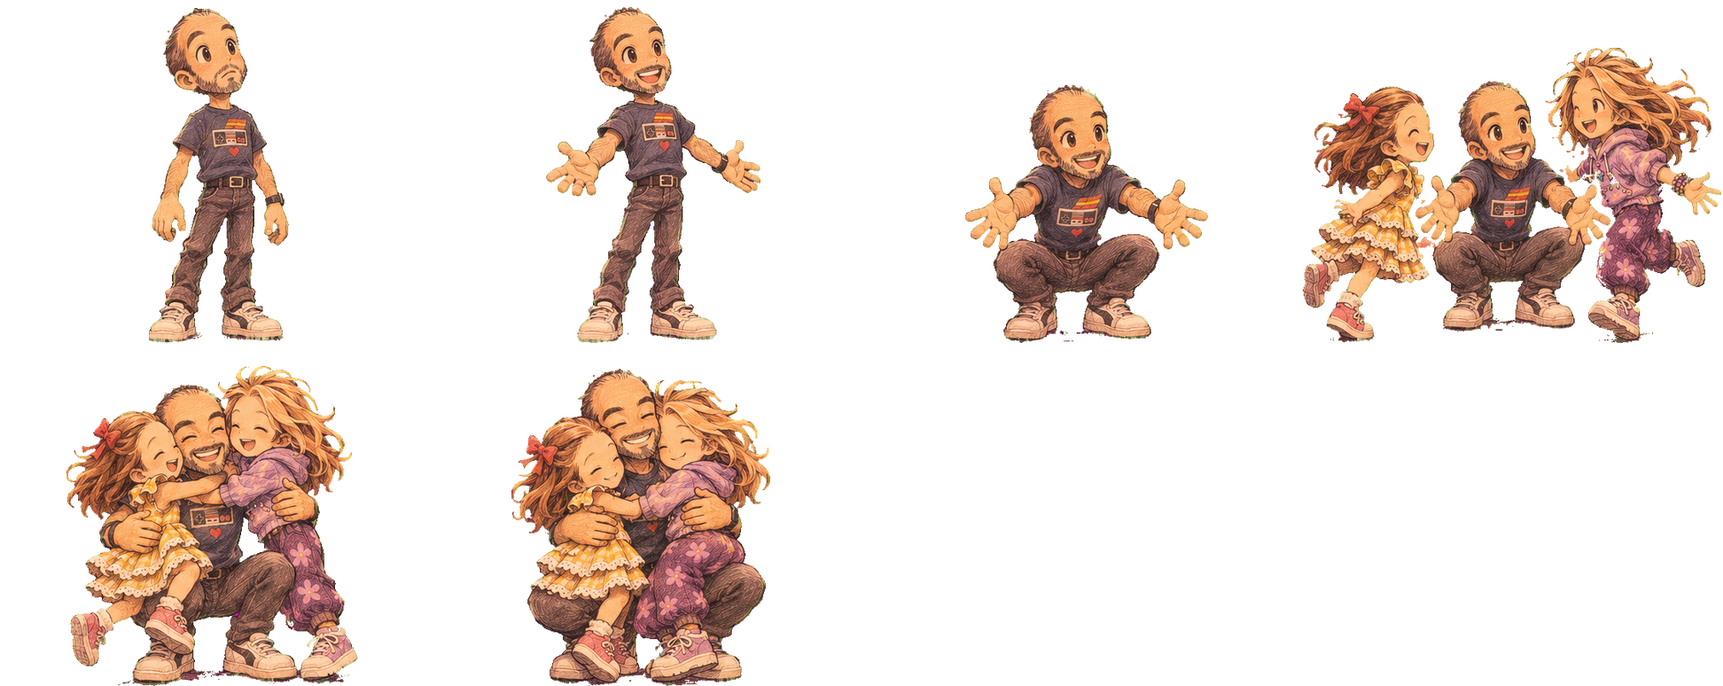
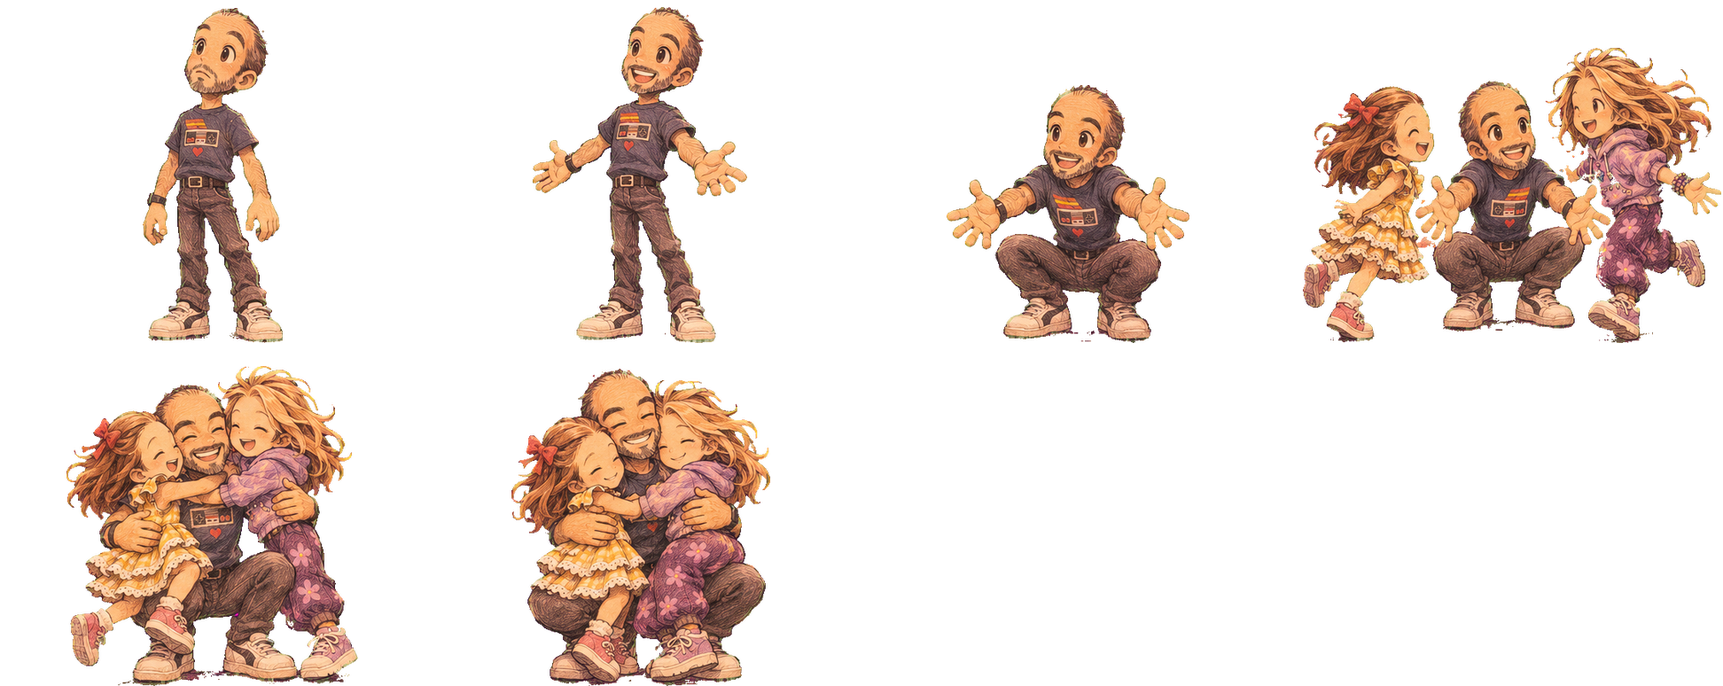
hugface1: mirror Tom's hear, delight and crouch frames so he faces the girls
Claude-Session: https://claude.ai/code/session_01RXeukDXLb7vE64gUfK5XKR

Changed region(s): [[0.5556, 0.124, 0.7099, 0.4961], [0.3086, 0.0, 0.463, 0.4961], [0.0617, 0.0, 0.1852, 0.4961]]

diff --git a/data/story-poses.js b/data/story-poses.js
@@ -30,13 +30,13 @@ const STORY_POSES_SRC={
     tr_hopoff:['..........................','.............FKtz.........','............hBCpBA........','..........rmhmtGJvp.......','..........hmkxLMJCmx..ML..','.......JM.hckDyJzshh..MI..','.......LLKhphtuGGDkcKJA...','........AIMsltICxCoELv....','.........pvGGEoxzkFCh.....','.........mchvIrmrpFvf.....','........h.hcBBAFIBrv......','..........ccffBFFBp.......','.............xADAzFJMHm...','..........yNLFFEBEpprBz...','..........BxtKEtAvxprx....','.........ELFBnpDkhINyz....','..........zNAhtLxhzKyEt...','...........prmpLG..tvvx...','...............MN...wxq...','.......wEM.....KKC..nn....','......uMJLC....wwk........','.....lFAqFDn...qEK........','.....iBxuwJy....NNy.......','.....cqDGGBAu...zk........','.....anxDwuuq.............','......xBtuDFw........K....','.......xnkqs.........D..K.','....H....Bvm.........MNHC.','....AK..jCJIsjo.....IMMJA.','....vDyyjeowjjjjj...CNGC..','....hrBubebbbjbboj.KBr....','....jpmgajjemmbbuHELv.....','....zvrgaeopvqaaBIFDm.....','....FvBdaeluslaafxBr......','....BBraaejosi............','.....v..bbbghb............','.......ebbeebbb...........','.......bbbebeba...........','.......icaaeabfl..........','......uuogdgfglsu.........','.....EEuslddgelouCE.......','.....HCwoicaaddilsEH......','.....NEunf...adginsEE.....','....ywslg.......ijgon.....','....idfi.........cgfc.....','....dfid.........cifc.....','....dlgl........fnif......','.....nid........fidi......','.....gif........cfif......','.....sfif.......difn......','.....igdd.......icdd......','.....oyyd.......csyo......','.....yEEo......osEEEs.....','....EKKyl......CLfyKKN....','....NNNCn......oysCKNNy...','....yuCw...........EEl....'],
     tr_sit:['..........................','..........................','...........Hz.............','.........pBLApC...........','.......rchrxztAm..........','.......mmhppxGGrt.........','.......hchxMMLMwk.........','......tfckDGGLuqc.........','.......hvhtqsLuxf.........','......vrqhvDGJLwh.........','.....EvrcfksGHCfkt........','......hhtFxfhpfpFr........','......hpHzAxqxtxFMC.......','......fhrtCEuqCDwtp.......','.......nMGquCCCqCD........','.......EDkvJLMMGtG........','.......FplDIJIJIqp........','......EJAhxwzICqkFL.......','......DHAhprpFttptAz......','.....KAAFpvvuIAzvBJI......','.....vFCyvtDGDBGtCsAC.....','.....MChDDktwqtqqGpxx.....','....EtmtJImfsDGkrLxrt.....','.....xpkHzafpqkahGzm......','......iGIAdbkmlakGLG......','......CLGBebbbeekDIL......','.....nFxxqajjhrpbtxBs.....','.....FvnNyajsxtoeKKdfh....','....GDvoCwbjnysnbwznvD....','...xFFxswsbjjsojbsysxF....','...AFvkyHvbbbhjbdrEypB....','....v..MNMebebeeawNNup....','.......EHnbbeeebb.HE......','.........aaacldcb.........','.........dililgif.........','.........flnlilll.........','.........lsoeaafl.........','.........nuibacos.........','........nusnf.gss.........','........lswn..iss.........','........lwof..iso.........','........uuld..dnsf........','........gsnd..dlun........','........wfd...dgli........','.......ynff...doif........','.......lnll...iifl........','.......nsui...lnnl........','.......oyic...djsl........','.......yld.....cis........','......lgfi.....figi.......','......nuni.....igjl.......','......sEyi.....anEys......','......EEHn.....lyHEE......','.....KNKyl.....EwlKKN.....','....ENNKys.....yCwHNNK....','....yyCHs........izKyl....']
   }},
-  hug:{member:"tom",atlas:{"src": "art/chars/hug-story.webp", "k": 9, "rects": {"hg_hear": [0, 0, 486, 387], "hg_delight": [486, 0, 486, 387], "hg_crouch": [972, 0, 486, 387], "hg_run": [1458, 0, 486, 387], "hg_crash": [0, 387, 486, 387], "hg_group": [486, 387, 486, 387]}},pal:{"a": "#4c322f", "b": "#563e3a", "c": "#6a3d39", "d": "#66453c", "e": "#6b4b43", "f": "#76453f", "g": "#794c41", "h": "#775248", "i": "#7d564b", "j": "#8b5145", "k": "#7f5c53", "l": "#8b5d4f", "m": "#985a4b", "n": "#a25c4c", "o": "#996653", "p": "#b45c4c", "q": "#9e6e59", "r": "#ad6d54", "s": "#b66e51", "t": "#c47151", "u": "#b37b5e", "v": "#c37c5e", "w": "#c0845f", "x": "#d5825a", "y": "#c48e69", "z": "#d78d62", "A": "#d69668", "B": "#e79659", "C": "#e59873", "D": "#d8a379", "E": "#e6a56e", "F": "#f1a36a", "G": "#f5ac66", "H": "#f3ac74", "I": "#eeb37b", "J": "#fcb36d", "K": "#fbb677", "L": "#f8bd7f", "M": "#fbc589", "N": "#fcd09d"},frames:{
-    hg_hear:['......................................................','........................quD...........................','.......................ALKLL..........................','......................wJEEKHw.........................','.....................jFzrHKKIA........................','.....................gzxEzHKql........................','.....................lrBEkwKzu........................','.....................lltKDxKHKz.......................','.....................cjjBJKEzEw.......................','......................tssFHEAHq.......................','......................xBzuwEAy........................','........................idgmq.........................','..........................pxx.........................','.........................klywe........................','........................qkkehlk.......................','.......................qkhkksxth......................','.......................qkhqqwwoek.....................','......................qkheqlyumeh.....................','......................cledkqqtqed.....................','......................FBbekkimkhs.....................','.....................ALF.ekeeeeiFA....................','.....................BLE.hkkhhhkBF....................','.....................GG..ebbdlhbzJ....................','.....................Jx...adhiib.JB...................','....................zL...gklille.tq...................','....................KMH..gihhehg.ewi..................','....................MLK..ilibaih.JNG..................','...................HMKE.hqlhadoi.ILH..................','...................zLwB.lqldahql.JxB..................','....................xs..ooi.dlql.wtz..................','.......................qwqd..iuu..x...................','.......................ihid.giql......................','.......................idb..bie.......................','......................qlib..iihh......................','......................ill...hho.......................','......................lie...bhh.......................','.....................yule...elol......................','.....................qloi...illl......................','.....................yDld...ggyD......................','....................uDIu....goDID.....................','...................NNNIq....DDhINNN...................','...................NNNMDw...wDyINNN...................','...................DyDDq......luyyl...................'],
-    hg_delight:['......................................................','.......................ouw............................','......................uKLLMH..........................','.....................mGKKKLEj.........................','.....................rJwwHKFA.........................','....................grxuEFKAi.........................','....................gotFolKFr.........................','....................fimBDrJJJF........................','.....................mjsJHAyqy........................','.....................sxsCAuCvu........................','......................xsqwCBEy........................','.........................giqr.........................','.........................jss..........................','.......................ihkklkkk.......................','.......................qkkkktxqh......................','......................qkkhqqxvlek.....................','.....................arlkeqlyrlbe.....................','.....................AKsbdoquuobrF....................','................HI..EKJhaekkopkbxKJ...L...............','.................BMEHKx..hkkhhk..xJGrIG...............','.................HFKFt...dkkkkkk..tzlxFEG.............','...............LEKHKI....kkheehh....jLHzE.............','...............EEEEKA....baaglia.....BJAA.............','................GEEzE....adhgii........FB.............','.........................hlolkle......................','.........................ilihehe......................','........................eloibblh......................','........................lqohahqh......................','........................ool.blq.......................','.......................oqoh.flq.......................','.......................yuqd.glu.......................','.......................iii..hlq.......................','......................lidb..dib.......................','......................qli...lgh.......................','.....................ille...eii.......................','.....................ilhh...bhe.......................','....................Awqld...hoql......................','....................luol....looo......................','....................qDyi....hhDDl.....................','....................yDIl....loDID.....................','...................NNNDl....IDhDNNN...................','...................NNNMy....yAyDMMNI..................','...................DDID........qyyu...................'],
-    hg_crouch:['......................................................','......................................................','......................................................','......................................................','......................................................','......................................................','......................................................','......................................................','......................................................','......................................................','......................................................','........................rwww..........................','.......................rGKKKLz........................','......................jBJKJJKE........................','......................mBGzEKFwj.......................','.....................fnBrvFJGzw.......................','.....................gosBwvGJii.......................','......................inBugGGzx.......................','......................jjxHzGFBF.......................','......................tsrGBuulw.......................','......................qsnwAzzzo.......................','.....................qkeagqAAwbko.....................','................I...eqkkbcmmibekqk....................','................FH.quskkebijabikkvo....HE.............','.................JyHKBobdebdirhbrGFJz.IB..............','................HLKBGzdaekktxtbagxGJuuMF..............','..............KHLHHBxgaakquvqla.acxxeBGJKGL...........','.............EBELJLw..aaliuuji......jKHJG.E...........','..............KJELG...bbekqrib.......BJGBL............','..............F.GH....habbfcbe...yD...EBGBB...........','...............E.GywwohbbbabbbhouuyAu.E.B.............','.................oyyuqqgabaaaeqohehqq.................','.................uuqgdhledgddlldbbiql.................','.................qrqgdbeifheeidadeild.................','.................gllidbbddggebaeliie..................','..................dggheaadeeaaeihhi...................','...................dbdeebbbdagigel....................','...................bdige....diaqud....................','....................kure....eeuIy.....................','...................lyyuo....yyiDIDN...................','..................wNNMyyw...yLuuNNNM..................','..................DMIIDo....luwAIIID..................','..................qoqoq...............................'],
-    hg_run:['......................................................','......................................................','......................................................','......................................................','......................................................','......................................................','.......................................A..............','....................................wtxxEA............','...................................xxzBvtFBxt.........','..................................ArBxJEAzsx..........','........................or........mrLFEJxxxsxB.GB.....','..........sxFxs........wKKKH......xALKABGxsttFFx......','.......xpgttxxsv......sJJJJKE....xtALAwxvBBnjnxGsxB...','.......ppppgjnEMA....lxGGFJGwj...zjsLAyGjftxcfjBxs....','.......cjpfjpHKKL....fxBrxJGBs....nxKHJGttnBBtttttxB..','.......pffgntKIKK....gstzvFJoi....szApHKsjgrtttjsp.t..','.....jmfjfajnJEyL....glxzexJzx....pjxFJzoyuomcxscps...','.....pspsgmmgFFFLE...fjmHzBGFF.....mgqjvIyyufanxnnt...','....txstjffsxHLBvE....tmtGwwou.......kyDqDyqklnmn.....','...ptcjncfagrwKLF.....stsAwCBw.......uyqDILDDDqjn.....','.....cpfjfinwEv.......kebgrAylbo....uquyyyDDDqo.......','....nmcfcgBtszsz.....lqkbcnnfaekq.GzqqyyyuuDuyKL......','.....jaccnprHxxB..H.esokdblgaehkqa.B..quyuhuqoAIqqII..','.......gcrwMLssB..BwHFxedebdjnelBAw..HCuyyyDqh..oELF..','.........MNHsmxy..FLBJtabkktBnajBJJ.KG.yIyuyuu...ELKI.','......LMLMBstBG..KKKBBcahqqvohaasJqAM..vqklqyk....KI..','......wMKvBGBJx.GGKJE.aahlqwje...noGFK..hlihff........','......svurIKMJB..GILB..bbkophb....ALKGBJfuvlfr........','....NMJztGByAyJ.GGEG...eabbcbe...DAJGG..qCIqhi........','....uMMADNKGGsDy.EGEyuqhbbbbbblouyAxAHGlquyjcbqj......','....trwwxwIMMBBsC.wvwuqodabaahqohdrvw..CoffhoilgDI....','...NKEwDMzBsuLMI..uurieilegdellbbeoqe..Iohcirrkgyyy...','...yDDwjnzDzBDDD..qqohbbhigghidbdilh...uoumcjlffrqw...','..DzDysjnBxANBxGM.diigebbdddebailil...vnqCylcfcboqDy..','..ysvA..LLtnnAMII..dghidabbbabihgi....vllyyo.....uMw..','..vpr..MNH..........dddhd....ehhig.....fcffhl.....Ao..','.uys...IL...........bdlee...dieyo.......jqjd..........','..uy..NNI............qwqd...ieyDu.......yDu...........','.....pzD............yDDoq...ADiDMM....NNDyD...........','.....Hxzu..........DNNIuu...rDwINNM..uuDNyyu..........','....yNMxv..........wDDDuf....jryywu...oqyII...........','.....guIHM..............................loIy..........','......ahDu...............................gj...........'],
-    hg_crash:['......................................................','......................................................','......................................................','..................................L...................','..............................BxxxBFA.................','......................gmo....wxxEzxFFA................','.....................mAFGLD.xtzBzLEzFBG...............','....................mFKKKKLs.xLMHHGxFxx...............','...................cvGJLKLEnpEMLHBJBtBB...............','...............FKBBsnGEyHKwxjELLMHxKAxGJF.............','............tttttrEMDtrwBJFxjvKLAHxmBnjBB.............','............pppjmwMLMzBAzJFFtFLLFFugtBmttz............','............fpfnpEIKMHtxJFzwvEwxLKspnzBBn.............','...........ppcjmpBLIELxFuuurmjEHIDDCqrnxBs............','...........nnjcfnsLAEDAswCFEgiklyDyyDykgxtt...........','..........ntpjanngFKLxwfozwusmkuIIyoqDkgpsx...........','..........BtmjjnpxEEAAlaagrmrwuDDyyCqulmst............','.........ttfnfjccwGwpwuwAKGslIDDCDDAzlfjn.............','.........tjjmfjarBABFLLMKBzyyCIDDqqvzEjj..............','..........jpcjfbuEjtGzsnspBCyyDqhksBEJG...............','..........pnjgcgjrtBzsgalonfdehhqyvBFGJs..............','............mjxBtzBGxJnellsjfbamICutzBxg..............','.............rrALEBGBGsioqDurhauDyDqjgaa..............','.............mwJGHEttGGwiqpphe.oqyogklol..............','.............mtJGGFtENIKuelgeb..lecoonnv..............','.............dmtBBsnIDwAwbbbdd...bciqyuq..............','............NJBAtsxBDELIGAkedl..oyyluICod.............','...........DNLIGGGKMBNDzwLqadbdouwyuqCyoh.............','...........nwDMMINLAAAtJHrgbablolhoqllmoo.............','............wtpDEtwxErIMzgbadloiegoqhfoili............','...........DNMEIMGMMuAMLladbeoldddllcqCylf............','............uMDuDIyliIMulhdgglddeigbcuCCuu............','.............ntttnafINDfqfdfidbllihdcovqmoq...........','.............MKKFmdszCwdebdddbciigggmqhfiib...........','.........DMzNNIGmdlICxueba...cligh..jmcmrna...........','.........DDtxI....uMMCzg.....gilgg..cccjvAu...........','.........yAxv.....goyNMD....flciyl.....oDDM...........','.........ADzq......ijuDN....cfqDDq.....IDyyy..........','.........wDI.......oomjq....uqqDIDu....uDDyD..........','..........yI......yDyudu....wMqeMNNNy.MNNDDNI.........','.................DNNNDqy....uIEuINNNI.NNNNN...........','.................ILLIIwjf...fqryAEIEwoDDDu............','.................iilqo.............d...ba.............'],
-    hg_group:['......................................................','......................................................','......................................................','.......................o..............................','.....................rFHKIu...........................','....................rGKKJKJ...E.......................','...................jBJJKKKEmjxsBznx...................','...................gBGKHKHsumxFFAzvx..................','...................cvBmsGGGzpxxJKAABB.................','................wxnmgsBHFGxztKHEGBxtGB................','...............BEFFBtmxtFJFBxLMEBFJGzBGJ..............','..............txtBxtKApGzuwusKLLHBrvsg.B..............','............xtjpnjsLLMEtwIIEnFLAAFnpzBnx..............','............pptpjpFLKLLoqEwrjFLKKKzsmEBxx.............','.............fpjntKHKLKragocgJKILCldcnpBB.............','.............pffjtFLEHKGrptmdoyDyyDDqmgnFB............','............smfffnnKzHLIddrieouIDquDyqfsxx............','...........xjjpnpnmBKELwbbehoyIDyDqqDqjtx.............','............nxxncjtAusndekdyICDIDvAoqqjnx.............','...........zxppcclGJxGHwoxwDIDIyrvBFnfnnn.............','...........xjjjffmssxxGMMKCyCDqfxEJJGnj...............','...........xjpjjcnzBBvtsxBmlqlerBEGGJAa...............','.............pjfsJJJGAxpabbfaayvtxFFBmg...............','...............mBGGGGFxBlbdfahywonsncam...............','...............jssxFFxpxAbabballmuvvCna...............','...............lAtttttBGBgbeagvqyCyruCr...............','..............NJBEGGBJJLGKkbarqoyCyilnr...............','.............uNNINLJMNLMDNqabmmolqhlmcl...............','..............nwrDNMyyDEsBgajuCuffcmdlwDA.............','..............ExxxsEBxKNMJIrnvIyhibalqquyu............','.............yDMNGINMLDwuDulnruulfbglidlql............','............jjlqDDyDMDnBtccfjqqqrvggdddild............','............oqqoooffcmKLxanrlCCrqyoabddgg.............','.............qllioldaEMEgaCqlCrfiffbegee..............','.............ilhhigdlHKrccrmjlfjogabedg...............','..............bdeebdMNymcfnffacotmdded................','................aaasCDyvdbjcbgiDIDuffd................','.................buCxxunia...quyDDyi..................','.................gDNCxunlg...lyDvyDqg.................','................DuguNHvnvq..DDIDDMNDDM................','...............yNIofuINDCy.uNNMNIyqlIND...............','...............uAAyigqDwojcoADDufiorDIy...............','................bdf.bcg.....ccbac.....................']
+  hug:{member:"tom",atlas:{"src": "art/chars/hug-story.webp", "k": 9, "rects": {"hg_hear": [0, 0, 486, 387], "hg_delight": [486, 0, 486, 387], "hg_crouch": [972, 0, 486, 387], "hg_run": [1458, 0, 486, 387], "hg_crash": [0, 387, 486, 387], "hg_group": [486, 387, 486, 387]}},pal:{"a": "#4c332f", "b": "#563e3a", "c": "#6a3d39", "d": "#6f453e", "e": "#6a4b43", "f": "#794c41", "g": "#72514a", "h": "#7d5246", "i": "#7c564c", "j": "#8b5144", "k": "#7e5c53", "l": "#8b5d4f", "m": "#975a4b", "n": "#976552", "o": "#aa5b4b", "p": "#976d5a", "q": "#ac684f", "r": "#a26e57", "s": "#b56d53", "t": "#ac7159", "u": "#c37151", "v": "#b37b5e", "w": "#c47c5d", "x": "#c0845f", "y": "#d5825a", "z": "#c48e69", "A": "#d78d62", "B": "#d69668", "C": "#e79758", "D": "#e69972", "E": "#d8a479", "F": "#e6a56e", "G": "#f1a46a", "H": "#f5ab66", "I": "#f2ac74", "J": "#efb47b", "K": "#fcb572", "L": "#f8bd7f", "M": "#fbc58a", "N": "#fcd09d"},frames:{
+    hg_hear:['......................................................','...........................Evr........................','..........................JLKLF.......................','.........................vIKGFKA......................','........................BJKKKvyHl.....................','........................nnKKAFwCh.....................','........................xzKAgECsn.....................','........................KIKAzKyjm.....................','.......................xFAFKHGjjd.....................','.......................nIBBIIwqu......................','........................zBIxvxCy......................','.........................rmfdh........................','.........................uys..........................','........................gxBnk.........................','.......................kpkgkkp........................','......................guyspkgkp.......................','......................gnvxppgkp.......................','.....................gemvzlpggkp......................','.....................egputpkeglf......................','.....................uigmikkgbyG......................','.....................Glegggkg.GLB.....................','....................CGkgggkkg..LF.....................','....................HCbgldbbg..HK.....................','...................CK..iihcaa..yKu....................','...................pw.ellillf...LA....................','...................xf.fieggih...ML....................','...................NK.fiabilkc.JLMJ...................','..................ILJ.hpeaglph.GJMI...................','..................FxH.ltiaclpn.CxLA...................','..................Awu.lrlc.inp..sy....................','...................y..rvld.bpvr.......................','......................ltlf..ihi.......................','.......................eib..bdii......................','.......................hii..bilr......................','.......................nhh...ili......................','.......................gib...eilh.....................','......................lnlf...eltz.....................','......................inll...hnlr.....................','......................zEhf...diEzl....................','.....................zJEpf....rJEv....................','...................NNNMizE....pENNN...................','...................NNNJzEz...vEMNNN...................','...................lxzvn......rEEEE...................'],
+    hg_delight:['......................................................','............................xvr.......................','..........................IMLLLx......................','.........................hBLKKKHm.....................','.........................AGKKxxHud....................','.........................hAKGFxysf....................','.........................rBKniGwnh....................','........................CKHKqzGmhd....................','........................xtxBIKwjm.....................','........................vxDxBGsys.....................','.........................FCGxrsy......................','.........................rtlf.........................','..........................qsj.........................','.......................kkklkkgi.......................','.......................pyukkkkpl......................','.....................kgiwArpgkpp......................','.....................eblrzlpeklqb.....................','....................GwblsvppebqKF.....................','...............J...GKyckonkkgaeIKI..JL................','...............FJrGKA..gggkkgb.yKIFMF.................','.............HIGAlAu...kkkkke...uFKGI.................','.............FAILm....ggeegkke...FLGKFL...............','.............BBKC......hlhaab....BKFFFF...............','.............CGC.......hifhca....FBFFH................','......................elllnli.........................','.......................gegill.........................','.......................lbaipnf........................','.......................piaelrl........................','.......................rlb.ipn........................','.......................nld.fprn.......................','.......................vlf..pvz.......................','.......................nlh..giif......................','.......................aie..beil......................','.......................hfl...glr......................','.......................iig...dllh.....................','.......................eib...fiki.....................','.......................pnhb..dltxB....................','......................ppln....lnvn....................','.....................iEEih....hzEr....................','.....................EJEpl....iJEz....................','...................NNNJgzL....lENNN...................','..................ENMMJzBzn...zMNNNE..................','...................vzzr........EJEE...................'],
+    hg_crouch:['......................................................','......................................................','......................................................','......................................................','......................................................','......................................................','......................................................','......................................................','......................................................','......................................................','......................................................','..........................xxxq........................','........................xLKKKHv.......................','........................AKIKKKCm......................','.......................jwFKGAGHof.....................','.......................vAHKGxqCqd.....................','.......................lfHKwxCuqf.....................','.......................CAHKhpCqhf.....................','.......................CCCHCICjm......................','.......................xnvvAHsqu......................','.......................nAyAAxqur......................','.....................pkbxBBrhaekp.....................','....................kpkebhmmdbkkpg...J................','.............FK....nwpkibahlbekkqvr..K................','..............CJ.yKGHsbeqjebeeblCIKxKu................','..............FMxtKHyjbbuyulkgabyHCILI................','...........LHJKHCdwyfa.akrwvplaadyCIGLKKI.............','...........G.GKILm......gjtvilaa..sLILFCG.............','............LFHKG.......birtkgbb...GLFKL..............','............CHGF...Bz...gbcfbbag....IIKG..............','.............H.F..BzxvnhbbbabbbgnvzxG.F...............','.................rtiehlrfaaabadrtvxzr.................','.................hrlbbclldcfddlidfrvv.................','.................dlhfcachfdhdhdbcdntt.................','..................eiilfaaddhccbbchllh.................','...................hhfidaaeeebadhffea.................','....................iffhfacbbbefdbc...................','.....................rtahd....edhcb...................','.....................zJxee....drvl....................','....................EEEizz....pvEzn...................','..................JNNNzrLB....zvMMNz..................','..................BJJJExtn....nEJJME..................','................................rrnr..................'],
+    hg_run:['......................................................','......................................................','......................................................','......................................................','......................................................','......................................................','.......................................B..............','....................................xwyyFB............','...................................yyACwuGCyu.........','..................................BqCyKFBAqy..........','........................nt........mqLGFKyyysyC.HC.....','..........swGyq........xKKKI......yBLKBAHyquuGGy......','.......yofuuyyuw......sKKKKKF....yuBLBxywCCqjoyHsyC...','.......oooofjoFMB....lyHHGKIxj...AjsLBzHjduycdjCys....','.......cjufjoILLL....dyCryKHCu....oyKIHHuuoCCuuyuuyC..','.......offfouKJKL....fsuAwGKnh....sABqILsjfquuujsq.u..','.....jmcjfajoKFzL....flyAeyKAy....qjyGKAnztpmcyscqs...','.....quoufmmfGGGLF...djmIACHGG.....jfpjwJzzvdaqyomu...','....uysujfdsyILCwF....umuHxxnv.......kzEpEzpllqmm.....','...qucjocfafswKLG.....uuqBxDCx.......vzpEMMEEErjo.....','.....codjdhoxFw.......keahtBzlbp....vtvzzzEEEtn.......','....omcfcfCuuAsA.....lpkbcmodagkp.HAppzzzvvEvzKL......','.....jaccqosIyyC..I.espkeblfaegkpa.C..pvzvgvpnBJtpJJ..','.......fctxMLusC..CxGGyeeebejmelCBx..IBvzzzEpg..nFLG..','.........MNIsmyz..GLBHuabkkuCoajCKH.JH.zJzvzvt...FLKJ.','......LMLMCquCH..KKKCCdagprwngaauHrBM..vtkntzl....KK..','......xLLwCHCHy.HHKKF.aaglrxje...onHGJ..ilhgdg........','......swvqJKMKC..HJLC..bbknqgb....BLLHCKftzldt........','....NMKAuHCzBzK.HHFI...gabbcbe...EBKHI..rDJtgh........','....vMMBENKHHqEz.FHFzvrgbbbbbblnvzByBIHlrtzicbrj......','....uqxxyxJMMCCsD.xwxvtncabaahrnfetxx..DnfffnhlfEM....','...NKFxEMACuvJMJ..vvtheildhddllbbenre..Jphciqtifzzz...','...zEExjqAEACEEE..rrnfbbhhffficbdhlh...vpvmcilddtrx...','..EAEzujmCyBNCyHM.diifebbbdcdbahlil...wntDzlcdcbprEz..','..zswB..LLumqBLJJ..dffheabbbabhhfh....wllzzr.....vMx..','..xqq..MNI..........dcdfc....dfhif.....dcdfhl.....Bn..','.vzs...JL...........bclee...chezn.......hrjc..........','..vz..MNE............rxre...lezEv.......zEv...........','.....uAE............zEzpr...BEiEMM....NNEzE...........','.....IyAv..........ENNJvv...tExENNM..vvENzzv..........','....zNMyw..........xEEEvd....htzzxv...nrzJJ...........','.....fvJIM..............................mnJz..........','......aiEv...............................fh...........'],
+    hg_crash:['......................................................','......................................................','......................................................','..................................L...................','..............................CyyyCHB.................','......................fmn....xyyFAyGGB................','.....................mBGHLE.yuACALFAGCH...............','....................mGKKKKLv.yLMIIHyGyy...............','...................cwHKLLLFnqFMLICHCuCC...............','...............GKCCvmHFzIKxyjFLLMIyKByHKG.............','............uuuuuqFMEuqxCKGyjwLLBIymCqjCC.............','............ooujjxMLMACBAHGGuGLLGGvfuCmuuA............','............fojmqFJLMIuyKGAxwFxyLKsqmACCq.............','...........uocjmoCLJFLyGvvvtmjFIIBEDrqoyCs............','...........oojcdoqLBFEBsxDDFhiknzEzzEzkfyuu...........','..........ouqjaoofFKLyxdnAxvsmkvJJzptEkfquy...........','..........CumjjoqyFFBBlaafqmqxvEEzzDptlmqu............','.........uudocjccxHxqwvxBKHslJEEEEEBAldjo.............','.........ujjmdjaqCBCGLLMKCAzzEJEEppxAFjj..............','..........jocjdbvFjuHAtnsoCDzzEpgksCFKH...............','..........oojfcfjquCAqhalnnfceggrzwCGHKs..............','............mjyCuACHyKqgnlsjdbamJEvuACyf..............','.............qqBLGCHCHsinrEvtgavzzErjfaa..............','.............mxKHIFuuHHxipqoge.npznfilpl..............','.............muHHHGuFNJKvelheb..ldcnnnnw..............','.............cmuCCuoJExBxbbbee...bchtztt..............','............NKCBusyCEFLJHBkeep..nzzlvJDnc.............','...........ENLJHHHKMCNEAxLpaebcnvxzvtDznh.............','...........oxEMMJNLBBBuKIsfbaalnlhnrllmnn.............','............wuqEFuxyFqJMAfaaclnhdfnrhgpili............','...........ENMFJMHMMvBMLlacbdnlcdcllctDzlf............','............vMEvEEzliJMvlhdfhldddifbdvDDtv............','.............muuuoadENEdrdcdicbllihdcnwpmnr...........','.............MLKGmdsADxddbccbbchhfffmrgdhhb...........','.........EMANNJHmblJDyveba...clifh..jmcnsna...........','.........EEuyE....vMMDAf.....fllfh..cccjwBv...........','.........zByw.....fnzNME....dlcizl.....nEEM...........','.........BEAr......hjvEN....cdpEEr.....JEzzz..........','.........xBJ.......nnmjr....vrpEJEv....vEEzE..........','..........zJ......zEztcv....xMteMNNNz.MNNEENJ.........','.................ENNNEtz....vJIvJNNNE.NNNNN...........','.................JLLJJxhd...drtzBFJFxnEEEv............','.................hhlrn.............c...ba.............'],
+    hg_group:['......................................................','......................................................','......................................................','.......................n..............................','.....................qGGKJv...........................','....................qHKKKKH...F.......................','...................jCKKKKKFmjyuCAmy...................','...................fCHKIKIvvmyGGBAwy..................','...................cwCnuHHHAqyyKKBBCC.................','................xyomfqCIGHyAuKIFHCyuHC................','...............CFGGCumyuGHGCyLMFCGKHACHH..............','..............uyuCyuKBqHAvxvsKLLIAqwuj.C..............','............yyjoojqLLMFuxJJFmGLBBGoqACoy..............','............oouojqGLJLLnrFxtjGLLLKAqmFCyy.............','.............fojouLIKLKqafncfKLJLDldcoqCC.............','.............ucdjuGLFILHqqumcrzEzzEEpmfqGC............','............qjfffoqKAKLJcctienvJEpvEzpdsyy............','...........yjjqooomCKFLxbbegnzJEzEtpEtjuy.............','............qyyocjuBvsqdekezJEEJEwBnptjoy.............','...........AyoocalHHyHIxnyxEJEJztwCGqfmoo.............','...........yjjjffmsswyHMMKDzDEpfyFKKHqj...............','...........yjqjjcoACAwuqyCmlrlesCFHHKBa...............','.............ojdsKKKHByqabbdaazwuyGHCmh...............','...............mCHHHHGyClbefagzxnmsmcam...............','...............juqyGGyoyBbabballmvwwBra...............','...............jBuwuuuCHCfbgafwrzDztvDt...............','..............NKCFHHCKHLHKlbatrnzDzilot...............','.............vNNJNLKMNLMENpabmmnmrflmcl...............','..............qxtENMzzEFsCfajtzvfdcmdlxEB.............','..............FyyyqFCyKNMKJtovDzhhbalrrtzv............','.............zEMNHJNMLExvEvlnttvldbfliclpl............','............jjlpEEzEMEoCuccfhrtrtwffcccile............','............ntrnrnfdcmKLyartlDDtrzrabcdff.............','.............rllinlcaFMFfaArlDtghddbdfde..............','.............ilhhhfclIJqcdtmjlfjnfabddf...............','..............bdddbdMNzmcfofdacrumcddc................','................aaasDEzvdbjcbfhEJEvddd................','.................bvDyytoha...rtzEEzi..................','.................fENDyvolf...lzEwzErf.................','................EvfvMIwowr..EEJEEMNEEM................','...............zNJndvJNEDz.vNNMNJztnJNE...............','...............vBBzifrExnjcnBEEtdhntEJz...............','................bcd.bdf.....ccbac.....................']
   }},
   tomemo:{member:"tom",atlas:{"src": "art/chars/tomemo-story.webp", "k": 10, "rects": {"em_happy": [0, 0, 280, 420], "em_loving": [280, 0, 280, 420], "em_sad": [560, 0, 280, 420], "em_angry": [840, 0, 280, 420], "em_scared": [1120, 0, 280, 420], "em_surprised": [1400, 0, 280, 420], "em_proud": [1680, 0, 280, 420], "em_unimpressed": [0, 420, 280, 420]}},pal:{"a": "#372723", "b": "#4c3022", "c": "#4f382d", "d": "#573b2a", "e": "#5e3c27", "f": "#5b4137", "g": "#66442f", "h": "#684833", "i": "#6d4c30", "j": "#78492d", "k": "#795130", "l": "#6c4e44", "m": "#78523c", "n": "#7b553d", "o": "#965030", "p": "#7e5942", "q": "#805d42", "r": "#905c37", "s": "#8b603f", "t": "#8c6441", "u": "#96643f", "v": "#ac6435", "w": "#976c48", "x": "#a86e41", "y": "#a4764c", "z": "#ba7440", "A": "#ab7c51", "B": "#cc783e", "C": "#ad845a", "D": "#c48751", "E": "#e08947", "F": "#c49865", "G": "#e09652", "H": "#f1964e", "I": "#f7a156", "J": "#ebaa65", "K": "#fca85a", "L": "#fdae5f", "M": "#f5b56d", "N": "#f5c789"},frames:{
     em_happy:['............................','............................','............zGGJ............','...........vKLMNMx..........','..........zILMMMGzi.........','.........rGIIDGMLMG.........','.........jDEkuELKEz.........','.........jxzEGDKKBBv........','.........keBEvEKEEzv........','..........rrEBzGDArD........','.........BBvDBgijbzF........','..........EBCGxoBBx.........','.............CwDJJF.........','..............jjwy..........','............wfdzBIGw........','...........tplfzKEIDl.......','...........ppcfuIGEzf.......','...........tplcrIHHkfp......','...........gBxrIIjvkkj......','...........jIHKIjbezIB......','............HKIreobELG......','............BEjcppcjEE......','............icclfflc........','............fabaida.........','.............iiimgb.........','............itugimn.........','............iuDtabws........','.............wDAbdyA........','.............nADgeyD........','.............iyFudtDw.......','.............gyFw.nDD.......','............xsig.ehng.......','...........xskg..see........','..........itske.idkk........','..........sdee.gdgn.........','.........NCwd.Fwdbb.........','.........AqFy.Cnyy..........','.........wFNC..tFF..........','.........FNNN..FMNJ.........','..........FNNM.CMNN.........','...........FF...qw..........','...........a................'],

diff --git a/tools/sprite-bake/bake_story_poses.py b/tools/sprite-bake/bake_story_poses.py
@@ -44,6 +44,9 @@ SETS = {
     # 'feet' = x of Tom's own feet in each group frame's cut picture, in source pixels (measured with a ruler on the cut frames), so he stays on one spot from frame 4 to 6.
     'hug': {'member': 'tom', 'sheet': 'tom-grace-rose-greeting-hug-v2.png', 'ground': (255, 0, 255), 'dark_cos': .88, 'dil': 4, 'cut': (4, 2), 'k': 9, 'h': 42, 'ref': 'hg_hear',
             'names': ['hg_hear', 'hg_delight', 'hg_crouch', 'hg_run', 'hg_crash', 'hg_group'],
+            # hugface1 (Tom 16:47: "Tom is facing right instead of left before he hugs the girls"): the girls run in from the left, but v2 paints Tom's first three frames turned toward
+            # screen-right, so these three are mirrored (the only flip in this set; named to Tom). The group frames are as painted.
+            'flip': ['hg_hear', 'hg_delight', 'hg_crouch'],
             'feet': {'hg_run': 267, 'hg_crash': 194, 'hg_group': 175}},
 }
 
@@ -251,6 +254,7 @@ for cid, S in SETS.items():
             S['k'] = max(5, min(10, int(hd * stand_frame(S['member'])[1]) if hd else int(figs[S['ref']].height / S['h'])))   # never upscale the painted frames
     elif 'ground' in S: figs = dict(zip(S['names'], cut_cells(key_ground(os.path.join(RAW, S['sheet']), S['ground'], S.get('dark_cos', .985)), S['cut'][0], S['cut'][1], S['cut'][0] * S['cut'][1], S.get('dil', 6))))
     elif 'cut' in S: figs = dict(zip(S['names'], _cut(os.path.join(RAW, S['sheet']), S['cut'][0], S['cut'][1], [n[3:] for n in S['names']] + ['x%d' % i for i in range(S['cut'][0] * S['cut'][1] - len(S['names']))]).values()))
+    for _n in S.get('flip', []): figs[_n] = figs[_n].transpose(Image.FLIP_LEFT_RIGHT)
     if 'strip' not in S and 'cut' not in S and 'ground' not in S: figs = dict(zip(S['names'], grid(os.path.join(RAW, S['sheet']), 4, 2)))
     f = S['h'] * S['k'] / figs[S['ref']].height
     if 'strip' in S and S['member'] in EMO_HEAD:

diff --git a/docs/CHANGES.md b/docs/CHANGES.md
@@ -1,3 +1,9 @@
+## hugface1 (2026-11-13): Tom faces the girls before the hug
+- Tom 16:47: "Tom is facing right instead of left before he hugs the girls." Cause (fact): the girls run in from the left (`SCENES.opening`, gStart west of the taxi door), but in hug sheet v2 Tom's first three frames (`hg_hear`, `hg_delight`, `hg_crouch`) are painted turned toward screen-right.
+- Done: those three frames are mirrored in the bake (`'flip'` in set `hug`, tools/sprite-bake/bake_story_poses.py). This is the one flip in the set; named to Tom here. The run-in, crash and group frames are as painted. Only the `hug` block of data/story-poses.js and art/chars/hug-story.webp changed (Pip's mood files that the rebake wants to change were left out again).
+- Side effect (fact): the NES controller on his shirt is mirrored in those three frames only.
+- Looked at: the six baked frames side by side (first three look left, crouch near front). NOT looked at: the opening in motion in the game, a phone.
+
 ## hugv2 (2026-11-13): the greeting uses only the approved hug sheet v2; the separate crouch and kneel pictures are gone
 - Tom 16:20: "I don't think we need a separate crouch and kneel frame anymore. The approved greeting hug sheet should now have everything you need." He had just approved version 2 of the Library entry `tom-grace-rose-greeting-hug` (`art/raw/characters/tom-grace-rose-greeting-hug-v2.png`, 4 x 2, all eight cells with both girls).
 - Done: set `hug` in `tools/sprite-bake/bake_story_poses.py` is cut from v2: `hg_hear`, `hg_delight`, `hg_crouch` (cell 3, Tom alone crouched with arms open), `hg_run`, `hg_crash`, `hg_group` (cells 4 to 6). Cells 7 (squeeze) and 8 (looking up) are not played. `hg_kneel` is removed; `hugHearStep` (engine/intro.js) now plays hear, delight, crouch and holds the crouch while the girls run in. Painted as painted: no flip, one size factor (Tom standing = 42 rows).
